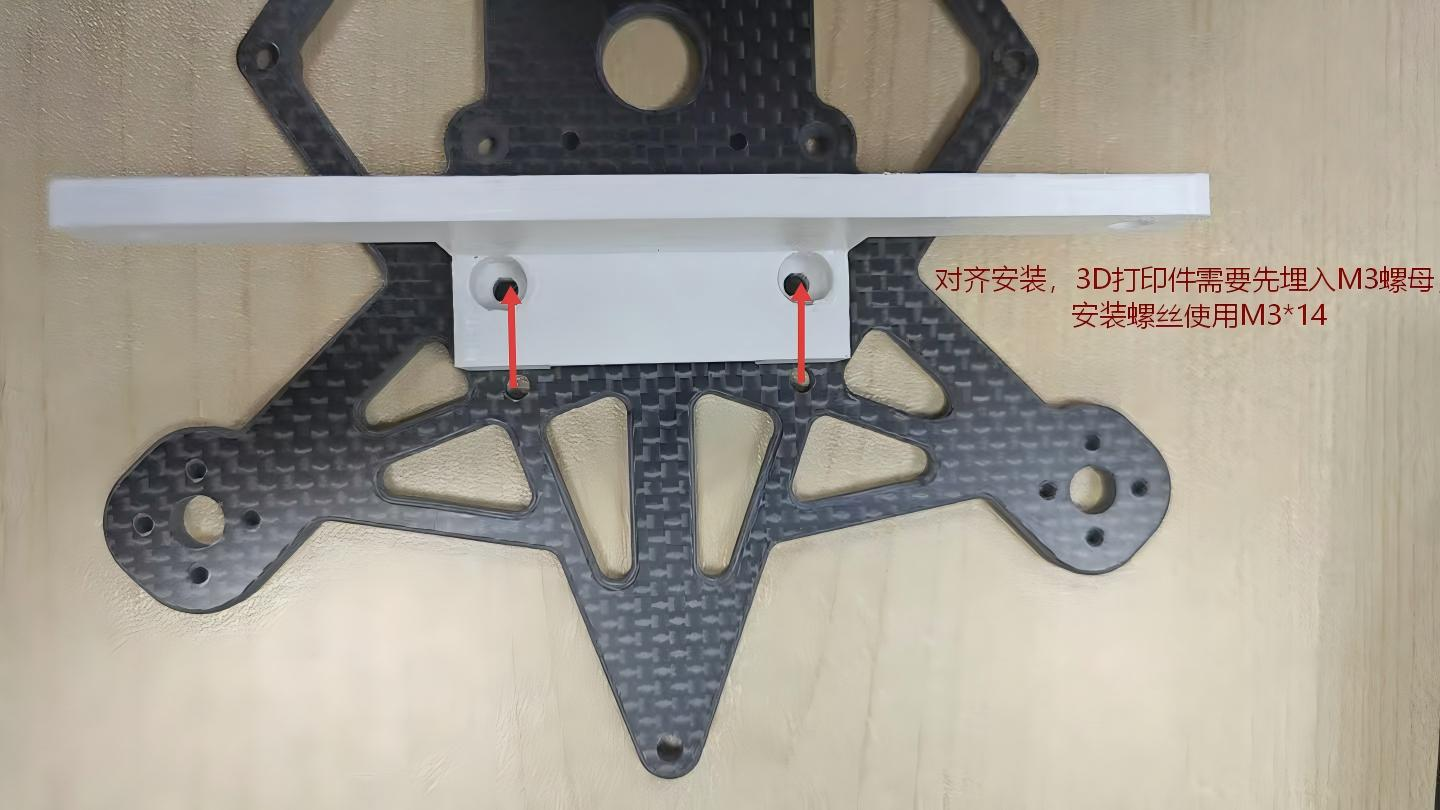
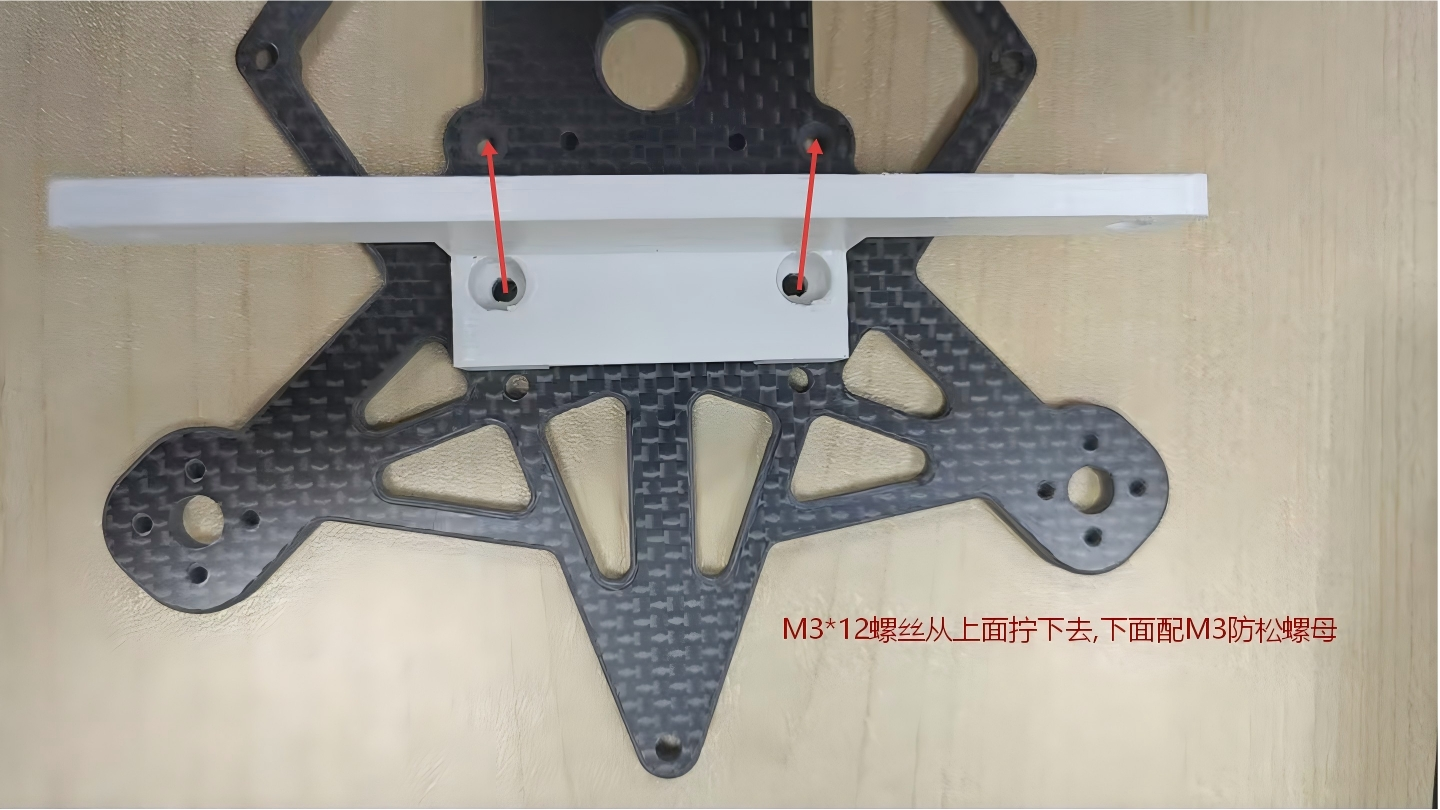
Update hardware reference images

diff --git a/README.md b/README.md
@@ -6,18 +6,18 @@
 |---|---:|---|
 | 边缘计算机套件：Nvidia Orin NX | 1 | [查看详细介绍](#detail-orin-nx) |
 | RGB-D 深度相机：RealSense D455 | 1 | [查看详细介绍](#detail-d455) |
-| 飞控：NxtPX4 | 2 | [查看详细介绍](#detail-nxtpx4) |
-| 电调：45A（当前使用，型号待补充） | 2 | [查看详细介绍](#detail-esc-45a) |
-| 电调：HobbyWing 65A（不再使用） | 2 | [查看详细介绍](#detail-esc) |
-| 电机：OddityRC 2006 2150KV 四个装 | 2 | [查看详细介绍](#detail-motor) |
-| 螺旋桨：GEMFAN D90s-3 四个装 | 3 | [查看详细介绍](#detail-propeller) |
-| 电池：1400mAh 6S | 6 | [查看详细介绍](#detail-battery) |
+| 飞控：NxtPX4 | 1 | [查看详细介绍](#detail-nxtpx4) |
+| 电调：45A（当前使用，型号待补充） | 1 | [查看详细介绍](#detail-esc-45a) |
+| 电调：HobbyWing 65A（不再使用） | 1 | [查看详细介绍](#detail-esc) |
+| 电机：OddityRC 2006 2150KV 四个装 | 1 | [查看详细介绍](#detail-motor) |
+| 螺旋桨：GEMFAN D90s-3 四个装 | 1 | [查看详细介绍](#detail-propeller) |
+| 电池：1400mAh 6S | 1 | [查看详细介绍](#detail-battery) |
 | 电池防撞护垫 | 1 | [查看详细介绍](#detail-battery-protector) |
-| 电池绑带：凯夫拉 20×280mm 防滑扎带 | 4 | [查看详细介绍](#detail-battery-strap) |
-| 桨叶保护罩：OddityRC XI35 Pro | 2 | [查看详细介绍](#detail-prop-guard) |
-| 接收器：瑞速 | 2 | [查看详细介绍](#detail-receiver) |
+| 电池绑带：凯夫拉 20×280mm 防滑扎带 | 2 | [查看详细介绍](#detail-battery-strap) |
+| 桨叶保护罩：OddityRC XI35 Pro | 1 | [查看详细介绍](#detail-prop-guard) |
+| 接收器：瑞速 | 1 | [查看详细介绍](#detail-receiver) |
 | 遥控器 | 1 | [查看详细介绍](#detail-transmitter) |
-| 电源接口：XT60 E1-M | 4 | [查看详细介绍](#detail-xt60-em) |
+| 电源接口：XT60 E1-M | 1 | [查看详细介绍](#detail-xt60-em) |
 | XT30 对（10 个装） | 1 | [查看详细介绍](#detail-xt30) |
 | 计算机电源线：18 AWG 红色，1m 长 | 4 | [查看详细介绍](#detail-power-red) |
 | 计算机电源线：18 AWG 黑色，1m 长 | 4 | [查看详细介绍](#detail-power-black) |
@@ -27,11 +27,11 @@
 | 硅胶线：28 AWG 白色，0.08平方，5m 长 | 1 | [查看详细介绍](#detail-wire-28awg-white) |
 | 硅胶线：28 AWG 红色，0.08平方，5m 长 | 1 | [查看详细介绍](#detail-wire-28awg-red) |
 | 硅胶线：28 AWG 黑色，0.08平方，5m 长 | 1 | [查看详细介绍](#detail-wire-28awg-black) |
-| 相机 Type-C 线 | 3 | [查看详细介绍](#detail-camera-cable) |
+| 相机 Type-C 线 | 1 | [查看详细介绍](#detail-camera-cable) |
 | 4 针串口线（20cm） | 4 | [查看详细介绍](#detail-uart) |
-| Type-C 调试母座（机架下板安装位） | 3 | [查看详细介绍](#detail-debug-female) |
-| Type-C 调试公头 | 3 | [查看详细介绍](#detail-debug-male) |
-| DC-DC 降压模块，输出 12V 5A | 3 | [查看详细介绍](#detail-dcdc) |
+| Type-C 调试母座（机架下板安装位） | 1 | [查看详细介绍](#detail-debug-female) |
+| Type-C 调试公头 | 1 | [查看详细介绍](#detail-debug-male) |
+| DC-DC 降压模块，输出 12V 5A | 1 | [查看详细介绍](#detail-dcdc) |
 | 936 烙铁头：黑金刚 SK 小刀型 | 1 | [查看详细介绍](#detail-solder-tip) |
 | 焊锡丝：63% 锡，1.2mm，55g/卷，含松香芯 | 1 | [查看详细介绍](#detail-solder-wire) |
 | 铝合金支柱：M3×12mm | 16 | [查看详细介绍](#detail-standoff) |
@@ -54,7 +54,7 @@
 | 热缩管：黑色，圆直径 2mm，按 2m 散卖 | 1 | [查看详细介绍](#detail-heatshrink-2mm) |
 | 螺丝胶：263 红色，高强度耐油性，50mL | 1 | [查看详细介绍](#detail-threadlocker-263) |
 | 公牛插排：B5440，3m，带过载保护 | 1 | [查看详细介绍](#detail-power-strip) |
-| 3K 东丽碳纤维板：黑色，固定翼定制加工 | 1 | [查看详细介绍](#detail-carbon-fiber) |
+| 3K 东丽碳纤维板定制加工 | 1 | [查看详细介绍](#detail-carbon-fiber) |
 | PETG 3D 打印定制件 | 6 | [查看详细介绍](#detail-petg-print) |
 | BB 响 | 2 | [查看详细介绍](#detail-buzzer) |
 | XT60 公母头（5 对） | 1 | [查看详细介绍](#detail-xt60-pair) |
@@ -370,13 +370,16 @@ Nvidia Orin NX 是无人机上的机载边缘计算平台。
 ### Type-C 调试母座（机架下板安装位）
 <a id="detail-debug-female"></a>
 
-**功能简介：** 作为可插拔的调试和烧录连接端，用于临时接入飞控或其他控制板。
+**功能简介：** 作为可插拔的调试和烧录连接端，用于临时接入飞控或其他控制板。这个东西和公头连起来以后，公头插飞控，母座放底板上，方便调试，本质是一个转接功能。母座需要导圆角。
 
 **安装方法：** 按调试接口的针脚顺序插接，确保母头与公头完全配合；调试完成后断电再拔出，并用标签标明接口方向。
 
 **参考图片：**
 
 ![Type-C 调试母座](./images/type-c母座.jpg)
+
+![Type-C 调试母座直接连接废弃数据线](./images/母座直接接一个废弃的数据线.jpg)
+![Type-C 调试母座](./images/母座直接接一个废弃的数据线.jpg)
 
 **淘宝购买链接：**
 
@@ -389,7 +392,7 @@ Nvidia Orin NX 是无人机上的机载边缘计算平台。
 ### Type-C 调试公头
 <a id="detail-debug-male"></a>
 
-**功能简介：** 与母头配合，为调试线、烧录器或外部测试设备提供插接端。
+**功能简介：** 与母头配合，为调试线、烧录器或外部测试设备提供插接端。直接用废弃数据线加上母座，所以这个type-c公头已经不重要了。
 
 **安装方法：** 焊接或插接到目标板的调试针脚上，按 1 脚标记对齐；焊点完成后检查相邻针脚无短路，调试时先确认电源电压。
 